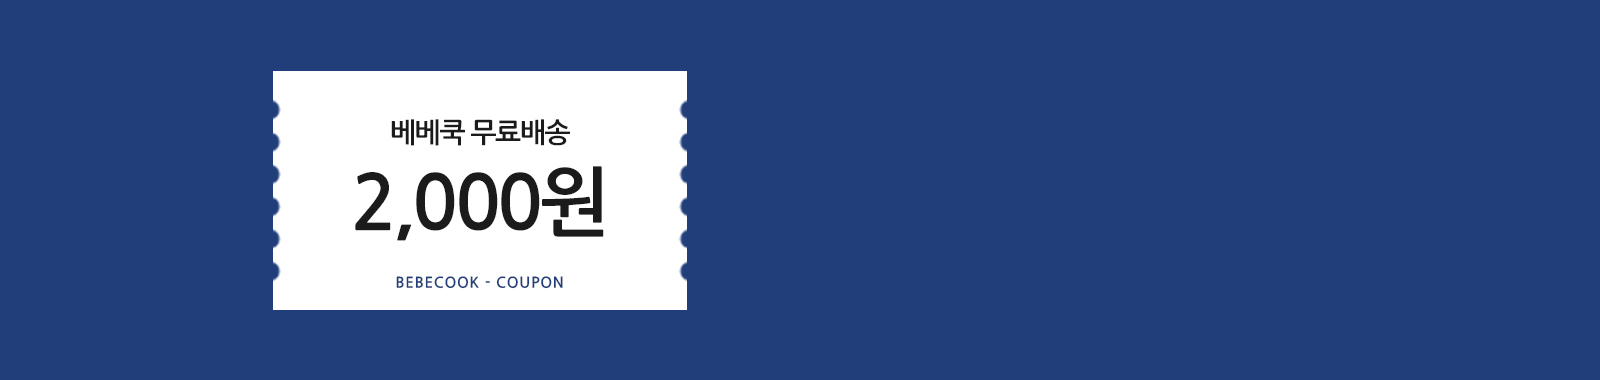
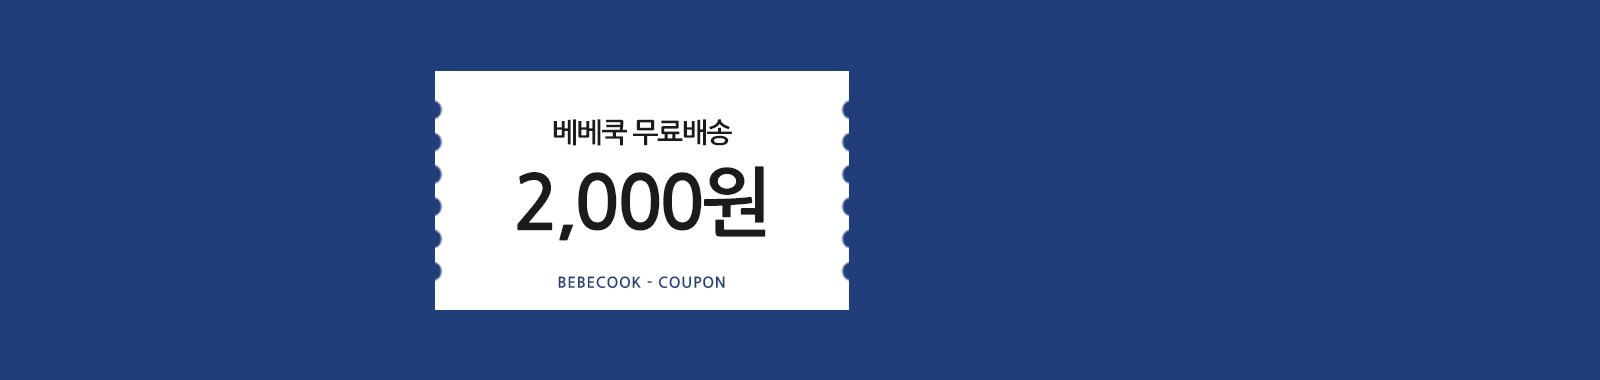
20230106

Changed region(s): [[0.1562, 0.1737, 0.5312, 0.8395]]

diff --git a/css/main.css b/css/main.css
@@ -352,7 +352,7 @@
 }
 
 .mainBanner {
-    text-align: center;
+    text-align: right;
 }
 
 .mainBanner .mainSlide02 figure {
@@ -362,6 +362,7 @@
 .mainBanner .mainSlide02 .itm01 {
     background: url(../img/mainbanner01.jpg);
 }
+
 .mainBanner .mainSlide02 .itm02 {
     background: url(../img/mainbanner02.jpg);
 }
@@ -409,7 +410,7 @@
 .mainBanner>a {
     position: absolute;
     top: 1430px;
-    left: 910px;
+    left: 1100px;
     right: 0;
     font-size: 27px;
     font-weight: 400;

diff --git a/index.html b/index.html
@@ -20,7 +20,7 @@
     <hr />
     <ul>
         <li>
-            <a href="./portfolio06.html" target="_blank">portfolio05 - 카드고릴라</a>
+            <a href="./portfolio06.html" target="_blank">portfolio06 - 베베쿡</a>
         </li>
     </ul>
 
